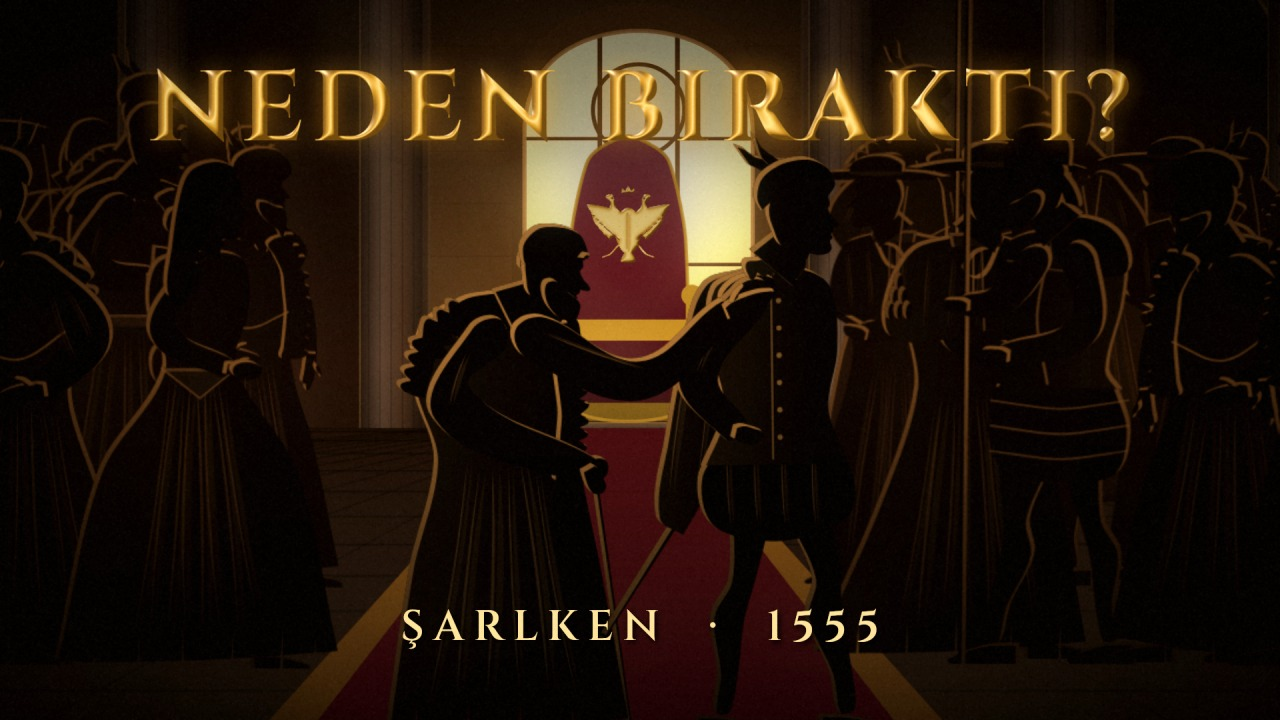
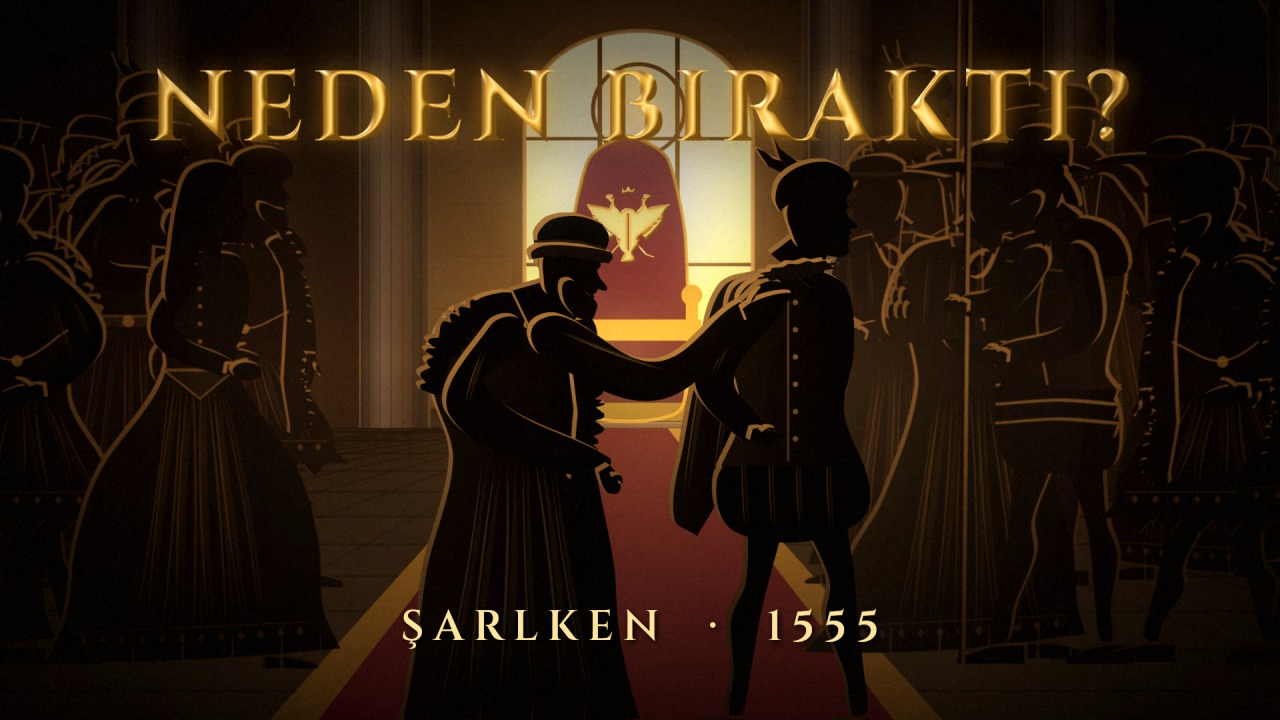
Şarlken: kapak C baston/kılıçsız çiftle yenilendi, ajan çalışmaları (ara kayıt)
Claude-Session: https://claude.ai/code/session_01MycV7YUZ8LkGP2ZFn1qUsS

diff --git a/gunluk-shorts/sarlken-uzun-dosya/kapak.py b/gunluk-shorts/sarlken-uzun-dosya/kapak.py
@@ -80,7 +80,8 @@ def kapak_c():
     f = sk.Frame()
     import scenes_lib as SL
     from shots import Ctx, Shot
-    sh = Shot("theatre", 0.0, dict(scene="hall", cams=[(0, (1000, 660, 1.75))], p=dict(crowd=True), vig=0.7, dust_n=0), None, "kapak")
+    import scenes_d as SD  # c0'daki baston/kılıçsız çift (kaynak kapısı: baston iddiası doğrulanmadı)
+    sh = Shot("theatre", 0.0, dict(scene="hall", cams=[(0, (1000, 660, 1.75))], p=dict(crowd=True, emperor=False, extra=lambda f, t: SD.draw_pair(f, 1010, 985, 520, 0.0)), vig=0.7, dust_n=0), None, "kapak")
     sh.t0, sh.t1, sh.i = 0.0, 8.0, 1
     cx = Ctx(f, 3.0, sh, SH.timeline())
     SH.KINDS["theatre"](cx, **sh.params)
